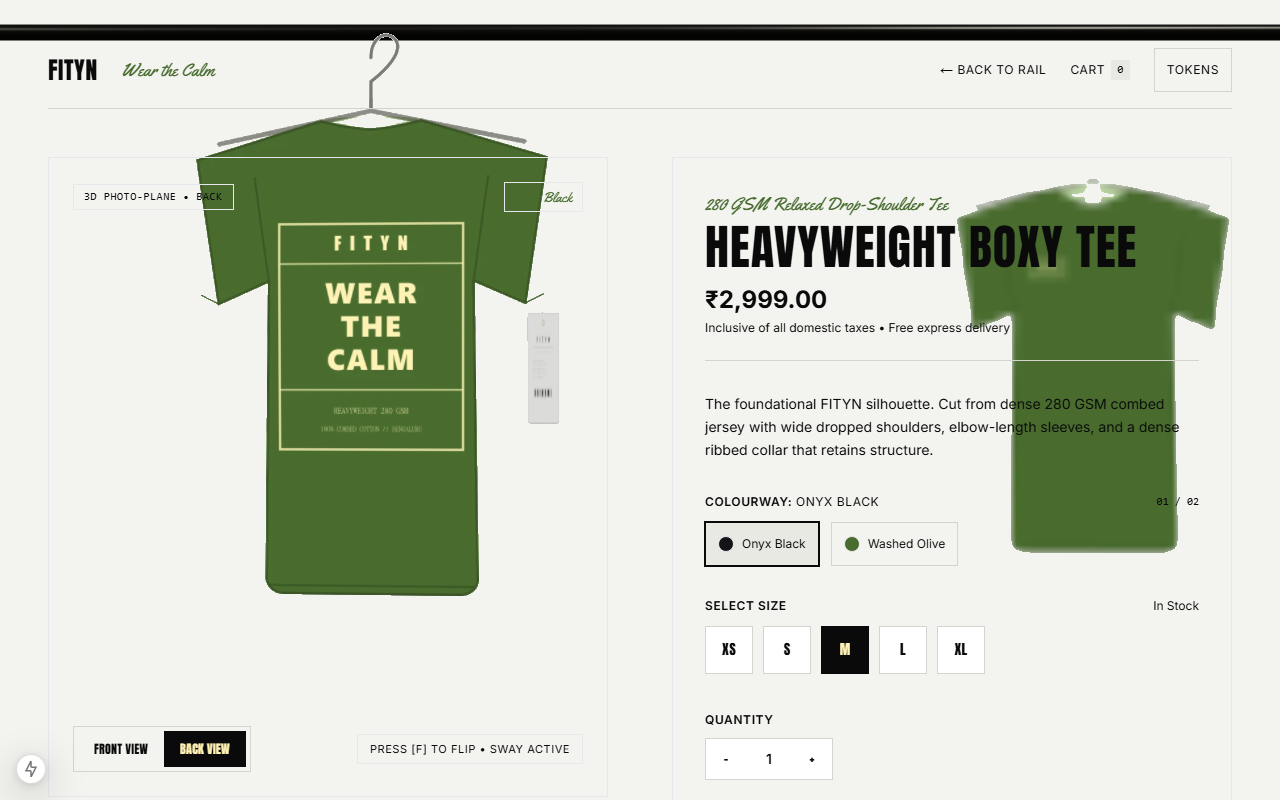
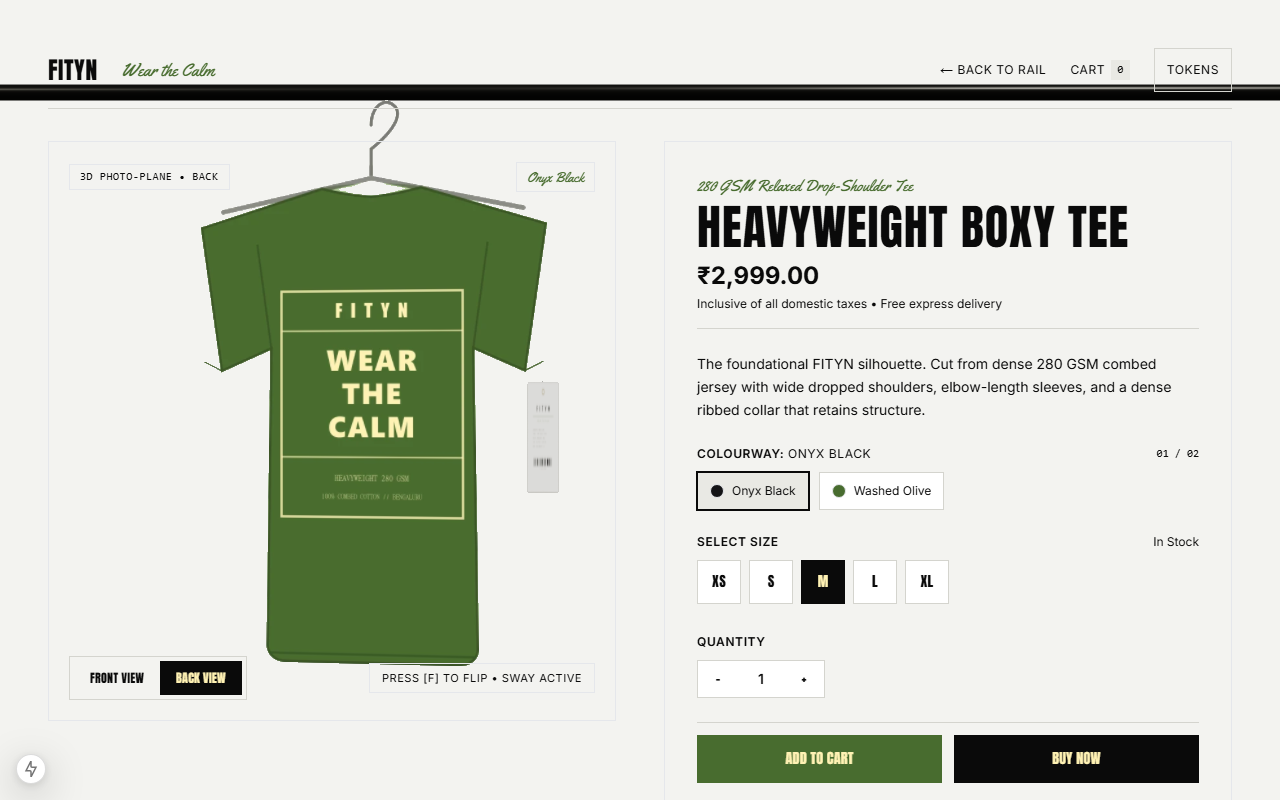
feat: resolve replica gap matrix with neighbour dimming, interactive hang tags, and clean prod navigation

diff --git a/components/three/GarmentPlane.tsx b/components/three/GarmentPlane.tsx
@@ -7,6 +7,7 @@ import { Product } from '@/lib/types/commerce';
 import { createGarmentMaterial } from './shaders/garmentShader';
 import { HangTag } from './HangTag';
 import { assetPath } from '@/lib/utils/assetPath';
+import { useSceneStore } from '@/store/useSceneStore';
 
 interface GarmentPlaneProps {
   product: Product;
@@ -35,6 +36,7 @@ export function GarmentPlane({
 }: GarmentPlaneProps) {
   const meshRef = useRef<THREE.Mesh>(null);
   const groupRef = useRef<THREE.Group>(null);
+  const setColourway = useSceneStore((s) => s.setColourway);
 
   // Current variant based on colourwayIndex
   const currentVariant = product.variants[colourwayIndex % product.variants.length];
@@ -91,6 +93,7 @@ export function GarmentPlane({
   const targetScale = useRef(1);
   const targetZ = useRef(0);
   const targetMipBias = useRef(0);
+  const targetDim = useRef(1.0);
 
   useFrame((state, delta) => {
     if (!groupRef.current || !meshRef.current || !material) return;
@@ -107,6 +110,7 @@ export function GarmentPlane({
     targetScale.current = isActive ? 1.04 : 0.94;
     targetZ.current = isActive ? 0.35 : -0.15;
     targetMipBias.current = blurEnabled && !isActive ? 2.8 : 0.0;
+    targetDim.current = isActive ? 1.0 : 0.60;
 
     // Smooth lerping
     const lerpFactor = reducedMotion ? 1.0 : Math.min(1.0, delta * 7.0);
@@ -131,6 +135,13 @@ export function GarmentPlane({
     material.uniforms.uMipBias.value = THREE.MathUtils.lerp(
       material.uniforms.uMipBias.value,
       targetMipBias.current,
+      lerpFactor,
+    );
+
+    // Spotlight focus: smooth dimming of inactive garments
+    material.uniforms.uDim.value = THREE.MathUtils.lerp(
+      material.uniforms.uDim.value,
+      targetDim.current,
       lerpFactor,
     );
 
@@ -172,9 +183,16 @@ export function GarmentPlane({
         <primitive object={material} attach="material" />
       </mesh>
 
-      {/* Damped Spring Hang-Tag (Mounted on Active Garment) */}
+      {/* Damped Spring Hang-Tag (Mounted on Active Garment, click to cycle colourway) */}
       {isActive && hangTagsEnabled && (
-        <HangTag position={[0.45, 0.45, 0.08]} enabled={!reducedMotion} />
+        <HangTag
+          position={[0.45, 0.45, 0.08]}
+          enabled={!reducedMotion}
+          onClick={() => {
+            const nextIdx = (colourwayIndex + 1) % product.variants.length;
+            setColourway(nextIdx);
+          }}
+        />
       )}
     </group>
   );

diff --git a/components/three/HangTag.tsx b/components/three/HangTag.tsx
@@ -9,9 +9,14 @@ import { assetPath } from '@/lib/utils/assetPath';
 interface HangTagProps {
   position?: [number, number, number];
   enabled?: boolean;
+  onClick?: () => void;
 }
 
-export function HangTag({ position = [0.42, 0.15, 0.05], enabled = true }: HangTagProps) {
+export function HangTag({
+  position = [0.42, 0.15, 0.05],
+  enabled = true,
+  onClick,
+}: HangTagProps) {
   const groupRef = useRef<THREE.Group>(null);
   const tagTexture = useTexture(assetPath('/garments/textures/hang-tag.webp'));
 
@@ -47,7 +52,19 @@ export function HangTag({ position = [0.42, 0.15, 0.05], enabled = true }: HangT
     <group position={position}>
       {/* Pivot at top where cord hangs */}
       <group ref={groupRef}>
-        <mesh position={[0, -0.22, 0]}>
+        <mesh
+          position={[0, -0.22, 0]}
+          onClick={(e) => {
+            e.stopPropagation();
+            onClick?.();
+          }}
+          onPointerOver={() => {
+            document.body.style.cursor = 'pointer';
+          }}
+          onPointerOut={() => {
+            document.body.style.cursor = 'auto';
+          }}
+        >
           <planeGeometry args={[0.22, 0.44]} />
           <meshBasicMaterial
             map={tagTexture}

diff --git a/components/three/shaders/garmentShader.ts b/components/three/shaders/garmentShader.ts
@@ -12,6 +12,7 @@ export interface GarmentShaderUniforms {
   uSwayAmplitude: { value: number };
   uMipBias: { value: number };
   uAlphaTest: { value: number };
+  uDim: { value: number };
 }
 
 export const GarmentVertexShader = /* glsl */ `
@@ -55,6 +56,7 @@ export const GarmentFragmentShader = /* glsl */ `
   uniform float uWipeProgress;
   uniform float uMipBias;
   uniform float uAlphaTest;
+  uniform float uDim;
 
   varying vec2 vUv;
 
@@ -83,6 +85,9 @@ export const GarmentFragmentShader = /* glsl */ `
     if (finalCol.a < uAlphaTest) {
       discard;
     }
+    
+    // Dim inactive neighbour garments to draw spotlight focus on selected piece
+    finalCol.rgb *= uDim;
     
     gl_FragColor = finalCol;
   }
@@ -115,6 +120,7 @@ export function createGarmentMaterial(
     uSwayAmplitude: { value: 0.04 }, // ~1.5 - 2.0 degrees
     uMipBias: { value: 0.0 },
     uAlphaTest: { value: 0.5 },
+    uDim: { value: 1.0 },
   };
 
   return new THREE.ShaderMaterial({

diff --git a/components/ui/SiteHeader.tsx b/components/ui/SiteHeader.tsx
@@ -65,12 +65,14 @@ export function SiteHeader({ backHref, backLabel }: SiteHeaderProps) {
           </span>
         </button>
 
-        <Link
-          href="/dev/tokens"
-          className="text-xs uppercase tracking-caption border border-line px-3 py-1.5 hover:border-black transition-colors min-h-touch flex items-center"
-        >
-          Tokens
-        </Link>
+        {process.env.NODE_ENV !== 'production' && (
+          <Link
+            href="/dev/tokens"
+            className="text-xs uppercase tracking-caption border border-line px-3 py-1.5 hover:border-black transition-colors min-h-touch flex items-center"
+          >
+            Tokens
+          </Link>
+        )}
       </nav>
     </header>
   );

diff --git a/components/scene/GarmentControls.tsx b/components/scene/GarmentControls.tsx
@@ -172,7 +172,7 @@ export function GarmentControls() {
             href={`/product/${activeProduct.slug}`}
             className="min-h-[34px] bg-olive text-offwhite px-4 flex items-center font-display text-[11px] uppercase tracking-display hover:opacity-90 transition-opacity ml-1"
           >
-            SEE AVAILABILITY
+            SEE AVAILABILITY &nearr;
           </Link>
         </div>
       </div>
